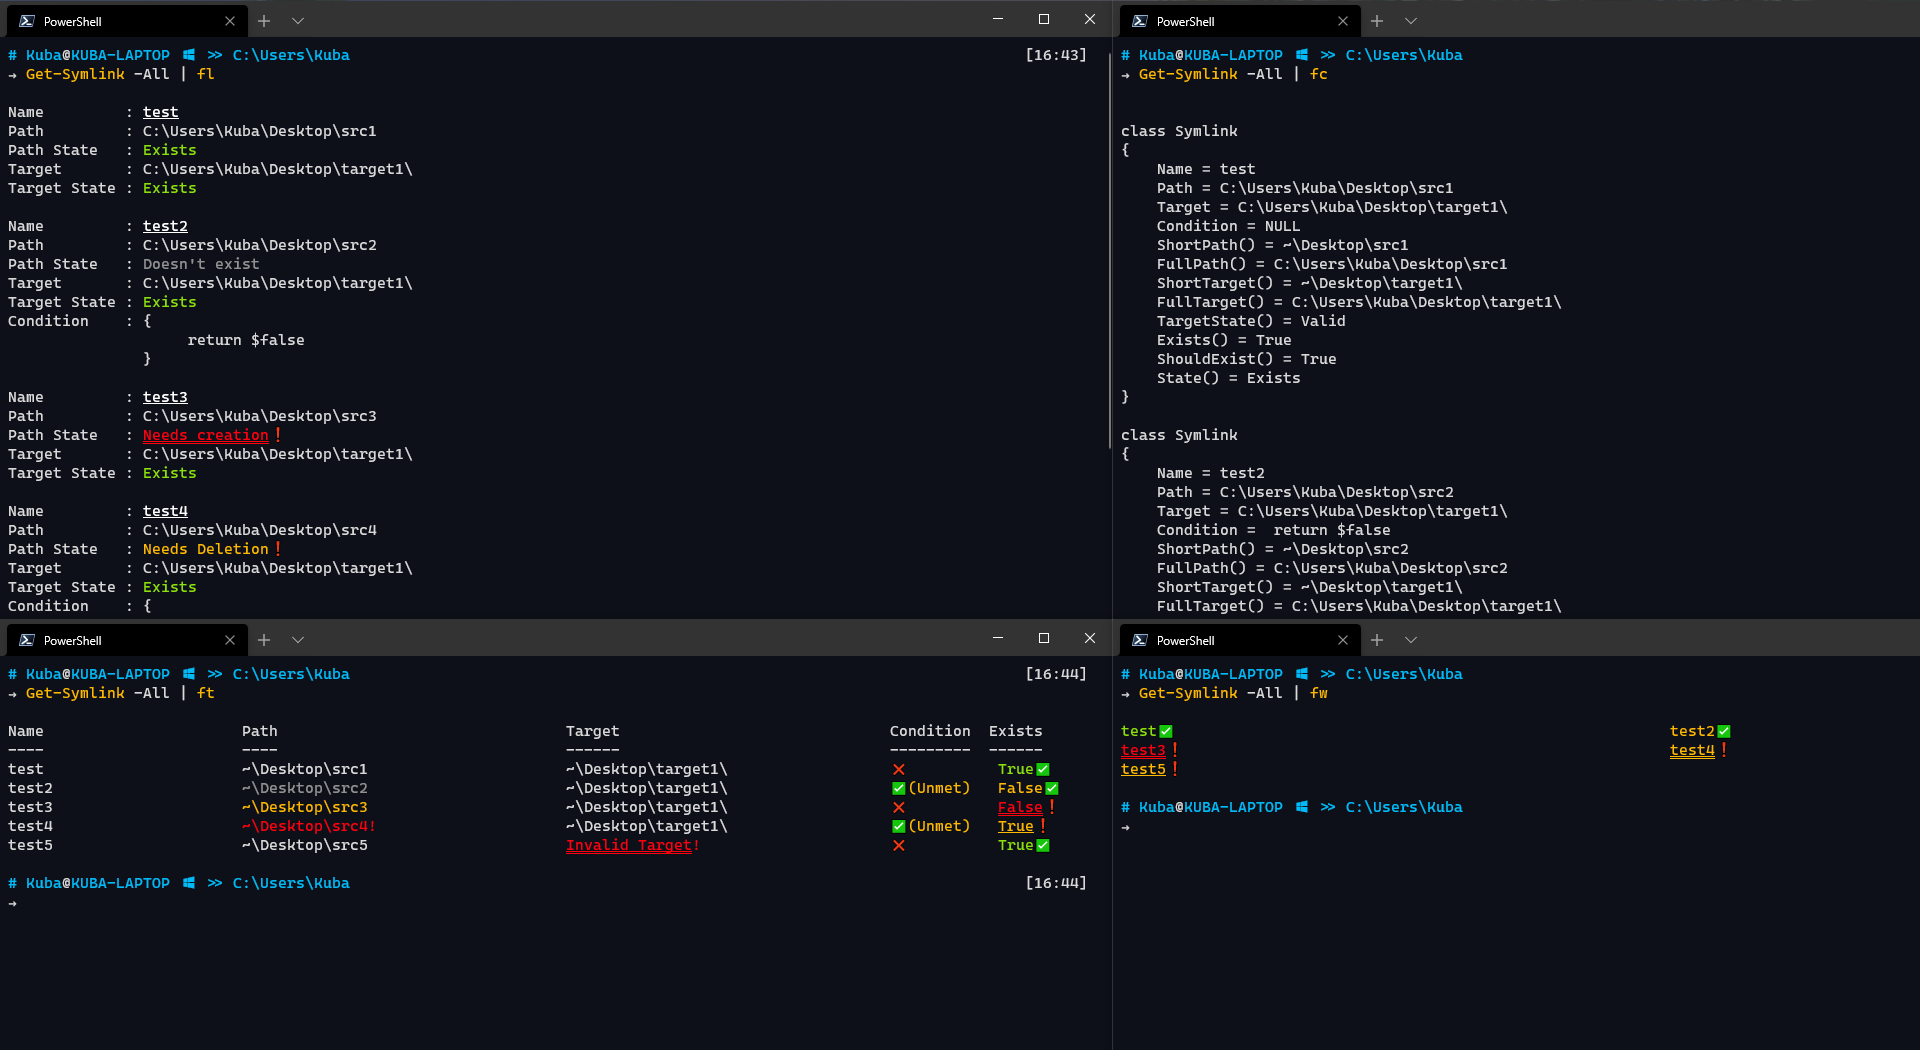
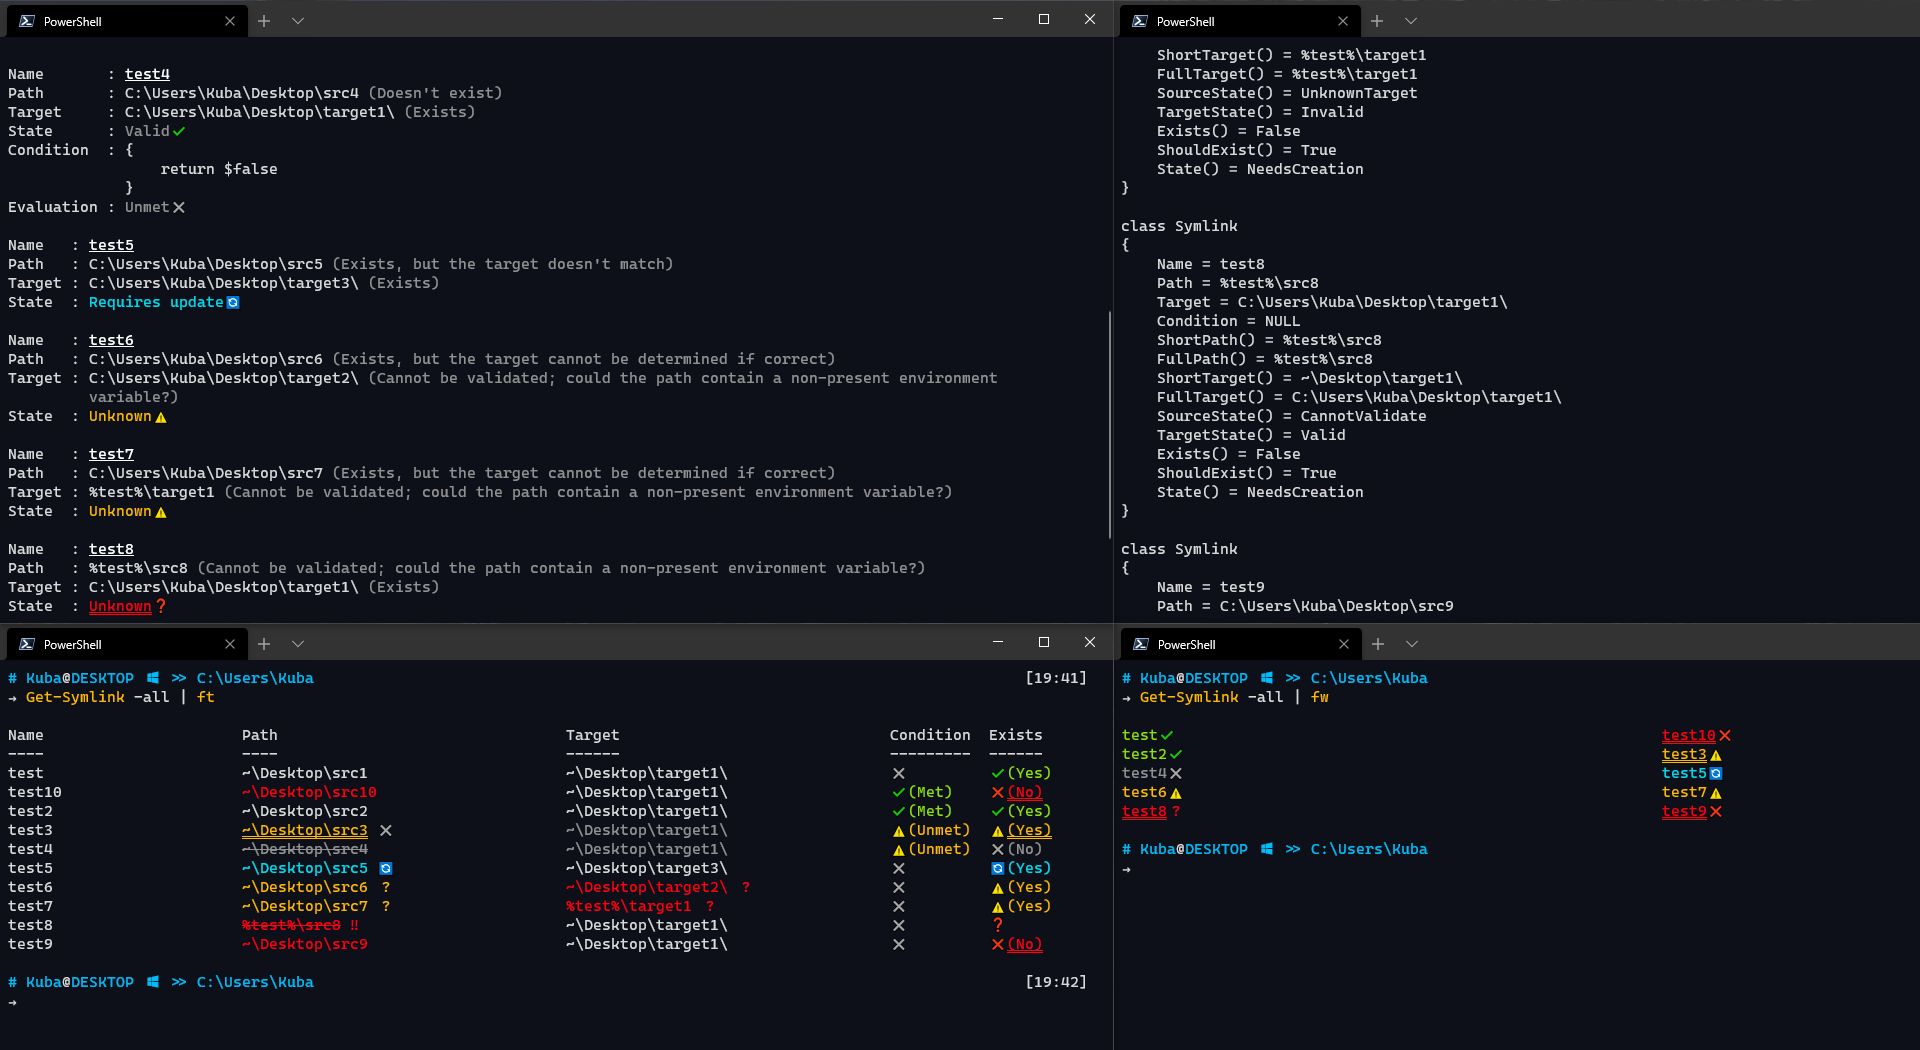
Prepare for release
- Update changelog with changes for this version.
- Update example image and README.
- Update the module manifest.
- Minor removal of unnecessary things.

diff --git a/Symlink/changelog.md b/Symlink/changelog.md
@@ -1,4 +1,7 @@
 # Changelog
+## 0.1.4 (2021-02-27)
+ - Update: Format.ps1xml: Improve formatting styles to present information and the state of the symbolic-links in a clearer manner.
+ - Fix: `New-Symlink`: Incorrectly throwing an error when using the *'-MoveExistingItem'* switch and when no renaming is necessary as the existing and desired item names are identical.
 ## 0.1.3 (2020-12-30)
  - Add: *'-Force'* for `New-Symlink`: Forces the creation of the symbolic-link even if the creation condition evaluates to false, and overwrites any existing symlink if the names collide.
  - Add: *'-Force'* for `Build-Symlink`: Forces the creation of the symbolic-link even if the creation condition evaluates to false.

diff --git a/README.md b/README.md
@@ -100,7 +100,7 @@ The following cmdlets support `-WhatIf` and `-Confirm` parameters:
 - `Set-Symlink`
 - `Build-Symlink`
 
-Use `-WhatIf` to see a list of what changes a command will do.
+Use `-WhatIf` to see a list of what changes a cmdlet will do.
 
 Use `-Confirm` to ask for a prompt for every state-altering change.
 
